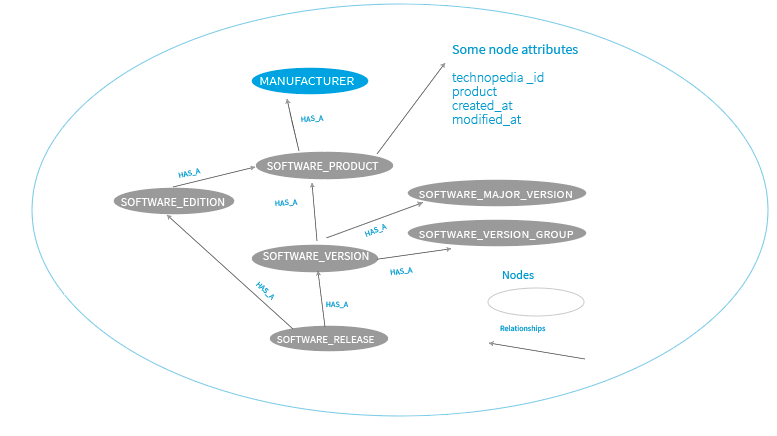
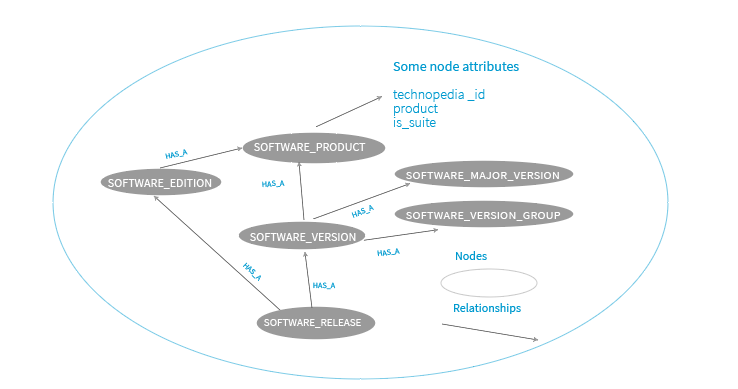
updates

diff --git a/_documentation/tql1.04.md b/_documentation/tql1.04.md
@@ -5,12 +5,12 @@ type:
 description:
   
 content_markdown: |-
-  You create queries by using the Technopedia query language (TQL) to use with the `/tql` endpoint to retrieve data from the Technopedia database. 
+  You use the Technopedia query language (TQL) to create queries that to use with the `/tql` endpoint to retrieve data from the Technopedia database. 
   <br>
   TQL is a declarative query language that allows you to specify the data that you want to retrieve by referring to nodes, relationships, and attributes in the Technopedia database.
 
 
-  #### Get started with TQL<br>
+  #### Get started with creating TQL queries<br>
 
   To create a query by using TQL, you must create a MATCH statement, which is similar to a Select statement in SQL.<br>
   The `MATCH` statement enables you to specify the query parameters that you use to search the database. <br>
@@ -47,8 +47,8 @@ content_markdown: |-
      You append an unique alias to a node, and TQL binds the alias to that node. <br>
      The `RETURN` clause references the alias to retrieve data from the associated node or relationship. <br>
     `MATCH (alias:node)` <br>     
-    `MATCH (alias:node) RETURN alias` <br>
-     Returns all attributes for the node.  <br>
+    `MATCH (alias:Xnode) RETURN alias` <br>
+     Returns all attributes for Xnode.  <br>
     <br>
     `MATCH (alias:node) RETURN alias.attribute1, alias.attribute2`  <br>
      Returns data for `attribute1` and `attribute2`, which are the specified attributes. <br>
@@ -61,14 +61,14 @@ content_markdown: |-
      A unidirectional relationship is indicated by an arrowhead and a birdirectional relationship has no arrowhead. <br>
      For example, in the following example, `nodeX` is manufactured_by `nodeY` <br>
     `(:nodeX)-[:MANUFACTURED_BY]->(:nodeY)` <br>
-    `-[:MANUFACTURED_BY]-` is an example of a bidirectional relationship because it has no direcional arroww.
+    `-[:MANUFACTURED_BY]-` is an example of a bidirectional relationship because it has no direcional arrowhead.
     <br>
     
    * RETURN <br>
     The `RETURN` clause defines the data that you want to get back by referring to the alias. <br>
     <br>
     `MATCH (aliasx:node1) RETURN aliasx` <br>
-     All `node1` attributes are returned <br>
+     All `node1` attributes (data) are returned <br>
      <br>
     `MATCH (aliasx:node1) RETURN aliasx.attribute_xyz` <br>
      Data for `attribute_xyz` is returned for `node1` <br>

diff --git a/_documentation/tqlqueries1.06.md b/_documentation/tqlqueries1.06.md
@@ -25,7 +25,7 @@ content_markdown: |-
 
   Note the direction of the relationship in the graph. If you specify an incorrect direction, you might not get data from the nodes that you want to connect with.
 
-  The following information outlines the makeup of relationships in the Technopedia graph representation of the database:
+  The following list outlines characteristics of relationships in the graph representation of the Technopedia database:
 
    * Relationships connect nodes, for example, the software product node uses the `HAS_A` relationhsip to connect to the manufacturer node.
    * You prefix relationships with a colon (:) and nest them inside square brackets, for example `[:HAS_A]`
@@ -33,8 +33,8 @@ content_markdown: |-
      An arrowhead (`>`) determines the direction of the relationship. <br>
      For example `(node x)-[BELONGS_TO]->(node y)` but node y does not belong to node x. <br>
    * Typically, relationships  are unidirectional but they can be bidirectional, in which case, there's no arrowhead.<br>
-     For example `(node x)-[BELONGS_TO]-(node y)` <br>    
-   * Relationships allow you to use a a single query to traverse the Technopedia nodes and retreive data from multiple nodes.
+     For example this relationship is bidirectional: `(node x)-[BELONGS_TO]-(node y)` <br>    
+   * Relationships allow you to use a single query to traverse the Technopedia nodes and retreive data from multiple nodes.
    * Like nodes, relationships can have attributes. 
      Typically, relationships have quantitative attributes, such as time intervals.
      You add an alias to the relationship when you want to return data for any relationship attributes that exist. 

diff --git a/_documentation/Nodes_Rel.md b/_documentation/Nodes_Rel.md
@@ -17,15 +17,15 @@ content_markdown: >-
 
   #### Nodes in Technopedia
   
-  Nodes represent entities that are equivalent to a data category such as hardware or software, and they are the main entity that you target when you query the Technopedia database. <br>
+  Nodes are entities that are equivalent to a data category such as hardware or software, and they are the main entity that you target when you query the Technopedia database. <br>
   For example, you might query the manufacturer node to get manufacturer data, or the software product node to get software product data. <br>
   <br>
   The following list describes node charactertistics:
 
   <br> 
    * Represent data categories in Technopedia such as software version or software editon.
-   * Have attributes that store data in key-value pairs, for example, `{"edition" : "server"}`.
-   * Connect with other nodes through defined relationships.
+   * Have attributes that store data in key-value pairs, for example, `{"edition" : "server"}` or `{"manufacturer" : "Microsoft"}` .
+   * Connect with other nodes through defined relationships so you query multiple nodes on one query.
 
    Here's some examples of nodes and relationships:
 
@@ -61,10 +61,10 @@ content_markdown: >-
   <br>
   <br>
   
-  The following diagram shows all of the nodes and relationships in the Technopedia database. <br>
+  The following diagram shows nodes and relationships for software, hardware, manufacturer, and CPU  in the Technopedia graph. <br>
   <br>
   <br>
-  ![API Image](/images/graph.png)<br>&nbsp;
+  ![API Image](/images/core_nodes.png)<br>&nbsp;
   <br>
 
   

diff --git a/_api/software1.1.md b/_api/software1.1.md
@@ -10,12 +10,12 @@ content_markdown: |-
   <br>
 
   The following query examples return data that is specific to that software node:
-  `MATCH (a:SOFTWARE_RELEASE) RETURN a`
-  `MATCH (a:SOFTWARE_PRODUCT) RETURN a`
-  `MATCH (a:SOFTWARE_EDITION) RETURN a`
-  `MATCH (a:SOFTWARE_VERSION) RETURN a`
-  `MATCH (a:SOFTWARE_MAJOR_VERSION) RETURN a`
-  `MATCH (a:SOFTWARE_VERSION_GROUP) RETURN a`
+  `MATCH (a:SOFTWARE_RELEASE) RETURN a` <br>
+  `MATCH (a:SOFTWARE_PRODUCT) RETURN a` <br>
+  `MATCH (a:SOFTWARE_EDITION) RETURN a` <br>
+  `MATCH (a:SOFTWARE_VERSION) RETURN a` <br>
+  `MATCH (a:SOFTWARE_MAJOR_VERSION) RETURN a` <br>
+  `MATCH (a:SOFTWARE_VERSION_GROUP) RETURN a` <br>
   <br>
   For more information about specific software nodes, click a link to go to the relevant page:
 
